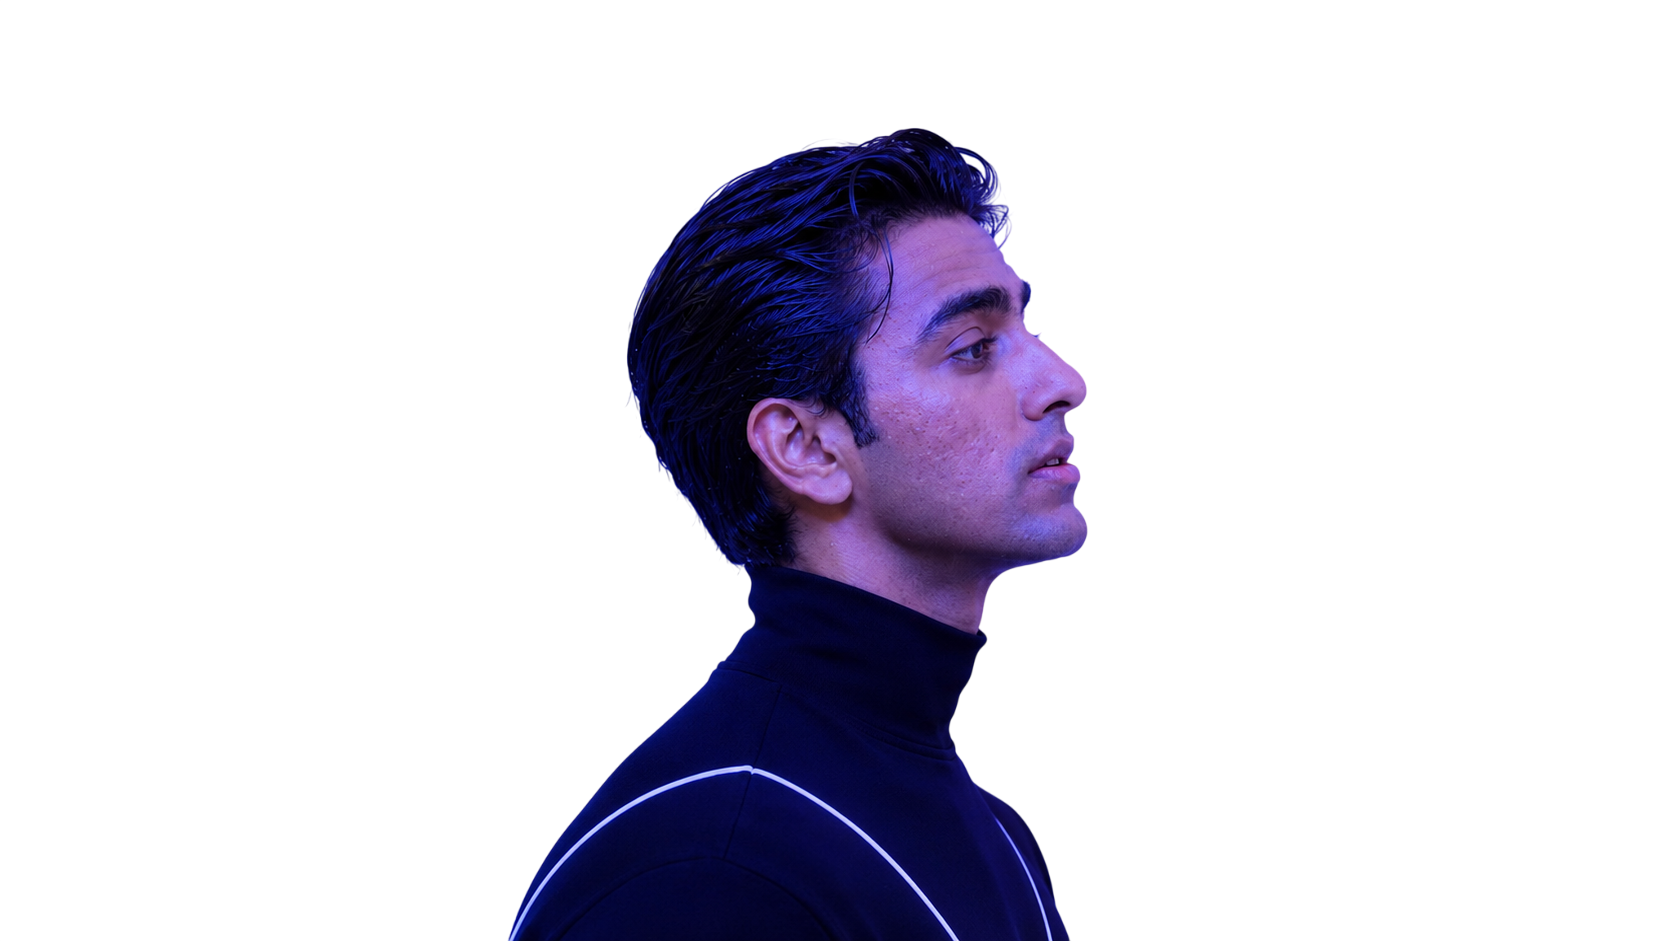
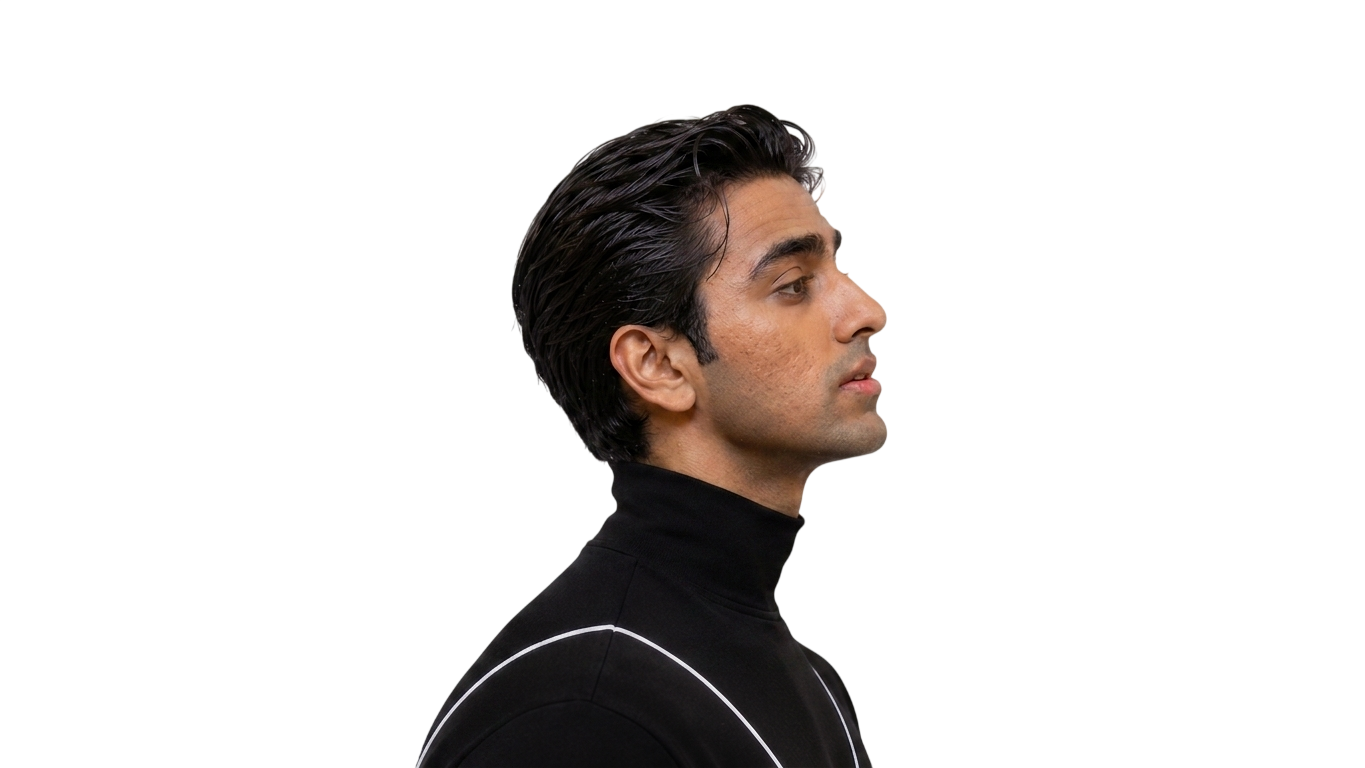
Refactored Hero Section UI

Changed region(s): [[0.3077, 0.125, 0.6462, 1.0]]

diff --git a/src/components/sections/Hero.tsx b/src/components/sections/Hero.tsx
@@ -6,37 +6,37 @@ import { ProfileImage } from "@/components/ui/ProfileImage";
 
 export function Hero() {
   return (
-    <section id="home" className="relative w-full min-h-screen">
+    <section id="home" className="relative w-full min-h-[115svh] md:min-h-screen">
       <div className="w-full h-full">
         <motion.div
           initial={{ opacity: 0, scale: 0.98 }}
           animate={{ opacity: 1, scale: 1 }}
           transition={{ duration: 1, ease: [0.22, 1, 0.36, 1] }}
-          className="hero-gradient-bg relative overflow-hidden shadow-2xl shadow-teal-900/20 w-full min-h-screen"
+          className="hero-gradient-bg relative overflow-hidden shadow-2xl shadow-teal-900/20 w-full min-h-[115svh] md:min-h-screen"
         >
-          <div className="relative flex min-h-screen flex-col">
+          <div className="relative flex min-h-[115svh] md:min-h-screen flex-col">
 
             {/* Large background typography — behind photo */}
             <div
               className="pointer-events-none absolute inset-0 flex flex-col items-center justify-center select-none z-0"
               aria-hidden
             >
-              <motion.span
+              <motion.div
                 initial={{ opacity: 0, y: 30 }}
                 animate={{ opacity: 1, y: 0 }}
                 transition={{ duration: 1, delay: 0.3 }}
-                className="font-display text-[clamp(4rem,18vw,14rem)] font-extrabold leading-[0.85] tracking-tighter text-slate-900/90"
+                className="font-display text-[clamp(4rem,18vw,14rem)] font-extrabold leading-[0.85] text-slate-900/90"
               >
-                BHAVYA
-              </motion.span>
-              <motion.span
+                BHA<span style={{ marginLeft: "-0.28em" }}>V</span><span style={{ marginLeft: "0.03em" }}>Y</span><span style={{ marginLeft: "-0.29em" }}>A</span>
+              </motion.div>
+              <motion.div
                 initial={{ opacity: 0, y: 30 }}
                 animate={{ opacity: 1, y: 0 }}
                 transition={{ duration: 1, delay: 0.45 }}
-                className="font-display text-[clamp(4rem,18vw,14rem)] font-extrabold leading-[0.85] tracking-tighter text-slate-900/90"
+                className="font-display text-[clamp(4rem,18vw,14rem)] font-extrabold leading-[0.85] text-slate-900/90"
               >
                 DARJI
-              </motion.span>
+              </motion.div>
             </div>
 
             {/* Hero navigation */}
@@ -57,28 +57,63 @@ export function Hero() {
               ))}
             </motion.nav>
 
-            {/* MOBILE ONLY: meta text row pinned just below nav, above the photo */}
+            {/* MOBILE ONLY: redesigned info block */}
             <motion.div
               initial={{ opacity: 0 }}
               animate={{ opacity: 1 }}
               transition={{ duration: 0.8, delay: 0.9 }}
-              className="relative z-20 flex items-start justify-between px-6 pt-4 md:hidden"
+              className="relative z-20 px-6 pt-18 pb-6 md:hidden"
             >
-              <div>
-                <p className="text-[10px] font-semibold uppercase tracking-[0.25em] text-slate-800/60">
-                  {personal.origin}
-                </p>
-                <p className="text-[10px] font-semibold uppercase tracking-[0.25em] text-slate-800/60">
-                  {personal.workingWith}
-                </p>
-              </div>
-              <div className="text-right">
-                <p className="text-[10px] font-semibold uppercase tracking-[0.25em] text-slate-800/60">
-                  {personal.techStack}
-                </p>
-                <p className="text-[10px] font-semibold uppercase tracking-[0.25em] text-slate-800/60">
-                  {personal.animations}
-                </p>
+              {/* Big role title */}
+              <p
+                className="font-sans text-lg font-bold uppercase tracking-[0.2em] leading-none text-center"
+                style={{ color: "rgba(0,0,0,0.85)" }}
+              >
+                {personal.techStack}
+              </p>
+              <p
+                className="mt-1 text-[10px] font-semibold uppercase tracking-[0.15em] text-center"
+                style={{ color: "rgba(0,0,0,0.5)" }}
+              >
+                {personal.animations}
+              </p>
+
+
+
+              {/* Two info cards */}
+              <div className="flex justify-center gap-3 mt-6 pr-6">
+                {/* Left card */}
+                <div className="w-[48%] pl-4 flex gap-1.5">
+                  <div className="shrink-0 pt-0.5">
+                    <svg width="12" height="12" viewBox="0 0 24 24" fill="none" stroke="currentColor" strokeWidth="2.5" strokeLinecap="round" strokeLinejoin="round" style={{ color: "rgba(0,0,0,0.7)" }}><path d="M20 10c0 6-8 12-8 12S4 16 4 10a8 8 0 0 1 16 0Z" /><circle cx="12" cy="10" r="3" /></svg>
+                  </div>
+                  <div>
+                    <span className="block text-[10px] font-semibold uppercase tracking-[0.15em] mb-1" style={{ color: "rgba(0,0,0,0.8)" }}>
+                      {personal.origin}
+                    </span>
+                    <p className="text-[9px] font-medium uppercase tracking-[0.12em] leading-relaxed" style={{ color: "rgba(0,0,0,0.45)" }}>
+                      Working with<br />India & beyond
+                    </p>
+                  </div>
+                </div>
+
+                {/* Divider */}
+                <div className="w-px bg-black/10" />
+
+                {/* Right card */}
+                <div className="flex-1 pl-3 flex gap-1.5">
+                  <div className="shrink-0 pt-0.5">
+                    <svg width="12" height="12" viewBox="0 0 24 24" fill="none" stroke="currentColor" strokeWidth="2.5" strokeLinecap="round" strokeLinejoin="round" style={{ color: "rgba(0,0,0,0.7)" }}><circle cx="12" cy="12" r="10" /><path d="M2 12h20M12 2a15.3 15.3 0 0 1 4 10 15.3 15.3 0 0 1-4 10 15.3 15.3 0 0 1-4-10 15.3 15.3 0 0 1 4-10z" /></svg>
+                  </div>
+                  <div>
+                    <span className="block text-[10px] font-semibold uppercase tracking-[0.15em] mb-1" style={{ color: "rgba(0,0,0,0.8)" }}>
+                      Global Mindset
+                    </span>
+                    <p className="text-[9px] font-medium uppercase tracking-[0.12em] leading-relaxed whitespace-nowrap" style={{ color: "rgba(0,0,0,0.45)" }}>
+                      Building solutions<br />that create impact
+                    </p>
+                  </div>
+                </div>
               </div>
             </motion.div>
 
@@ -88,9 +123,28 @@ export function Hero() {
                 initial={{ opacity: 0, y: 40 }}
                 animate={{ opacity: 1, y: 0 }}
                 transition={{ duration: 1, delay: 0.5, ease: [0.22, 1, 0.36, 1] }}
-                className="w-[160%] h-[75dvh] ml-[8%] md:w-full md:h-[92vh] md:max-w-3xl lg:max-w-4xl md:ml-0"
+                style={{
+                  width: "160%",
+                  height: "75svh",
+                  marginLeft: "8%",
+                }}
+                className="md:hidden"
               >
-                <ProfileImage />
+                <ProfileImage scale={2.2} />
+              </motion.div>
+              <motion.div
+                initial={{ opacity: 0, y: 40 }}
+                animate={{ opacity: 1, y: 0 }}
+                transition={{ duration: 1, delay: 0.5, ease: [0.22, 1, 0.36, 1] }}
+                style={{
+                  width: "100%",
+                  height: "75vh",
+                  maxWidth: "896px",
+                  marginLeft: "0",
+                }}
+                className="hidden md:block"
+              >
+                <ProfileImage scale={1.2} />
               </motion.div>
             </div>
 

diff --git a/src/components/ui/ProfileImage.tsx b/src/components/ui/ProfileImage.tsx
@@ -2,13 +2,25 @@
 
 import { personal } from "@/data/portfolio";
 
-export function ProfileImage({ className = "" }: { className?: string }) {
+export function ProfileImage({
+  className = "",
+  scale = 1,
+  offsetX = "0%",
+}: {
+  className?: string;
+  scale?: number;
+  offsetX?: string;
+}) {
   return (
     <img
       src={personal.profileImage}
       alt={personal.name}
       className={`object-contain object-bottom w-full h-full ${className}`}
-      style={{ mixBlendMode: "multiply" }}
+      style={{
+        mixBlendMode: "multiply",
+        transform: `translateX(${offsetX}) scale(${scale})`,
+        transformOrigin: "bottom center",
+      }}
     />
   );
 }

diff --git a/src/components/Footer.tsx b/src/components/Footer.tsx
@@ -32,13 +32,13 @@ export function Footer() {
       />
       <div className="w-full flex-1 flex flex-col justify-center relative z-10">
         <div className="flex-1 px-6 py-16 md:px-12 md:py-20 flex flex-col justify-center items-center">
-          
+
           {/* Name comes first */}
           <h2
-            className="text-center font-display text-[clamp(3rem,12vw,10rem)] font-extrabold uppercase leading-[0.9] tracking-tighter text-zinc-800 mb-8"
+            className="text-center font-display text-[clamp(3rem,12vw,10rem)] font-extrabold uppercase leading-[0.9] text-zinc-800 mb-8"
             aria-label={personal.name}
           >
-            <span className="block">BHAVYA</span>
+            <span className="block">BHA<span style={{ marginLeft: "-0.28em" }}>V</span><span style={{ marginLeft: "0.03em" }}>Y</span><span style={{ marginLeft: "-0.29em" }}>A</span></span>
             <span className="block">DARJI</span>
           </h2>
 